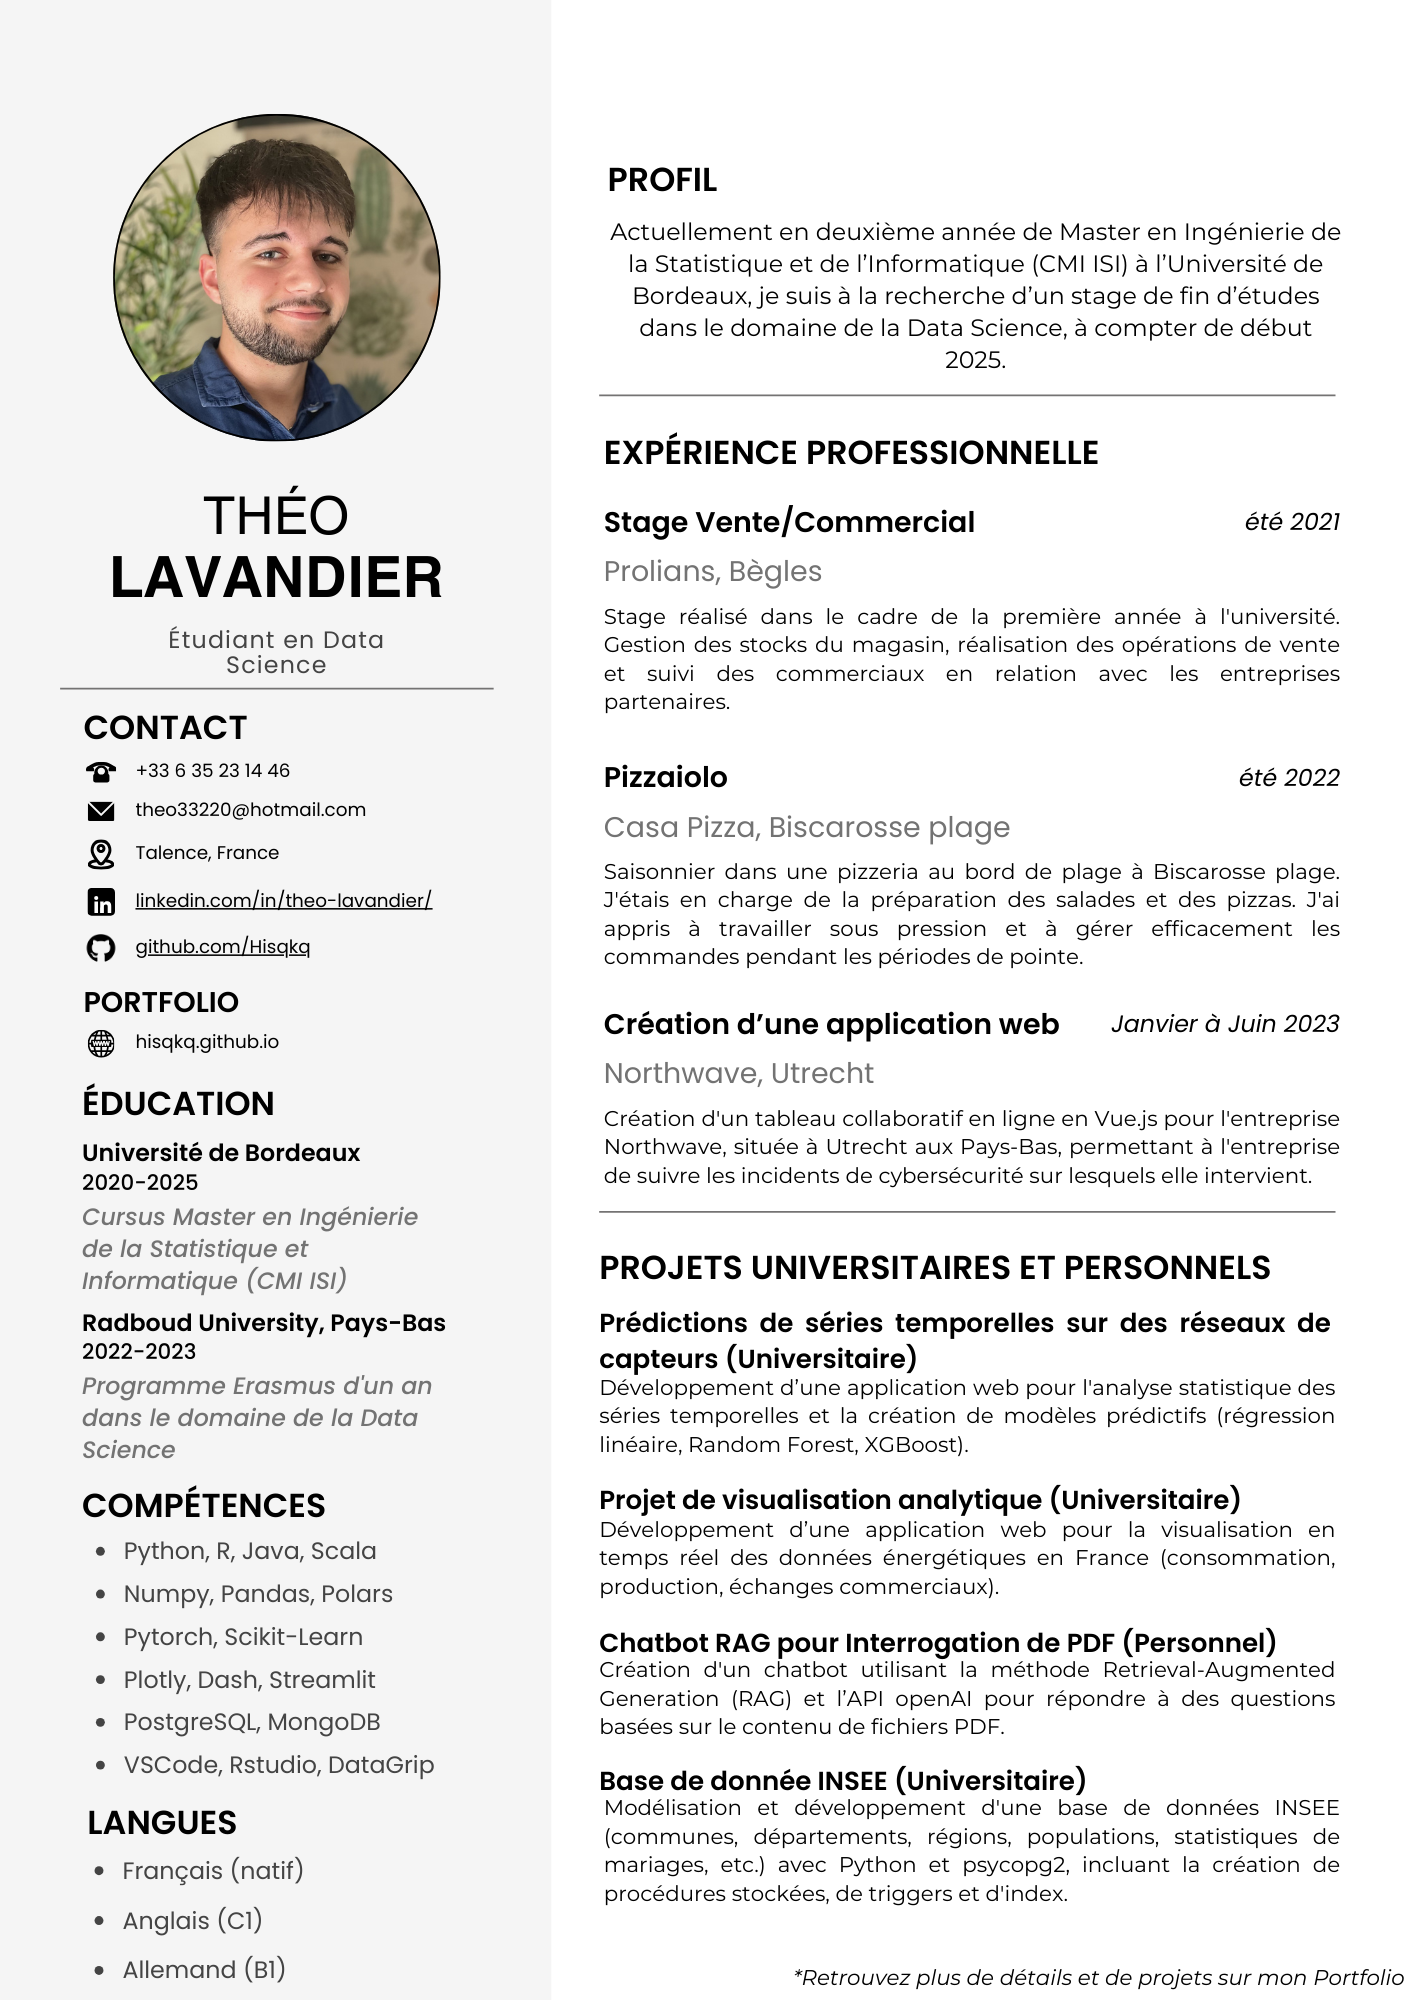
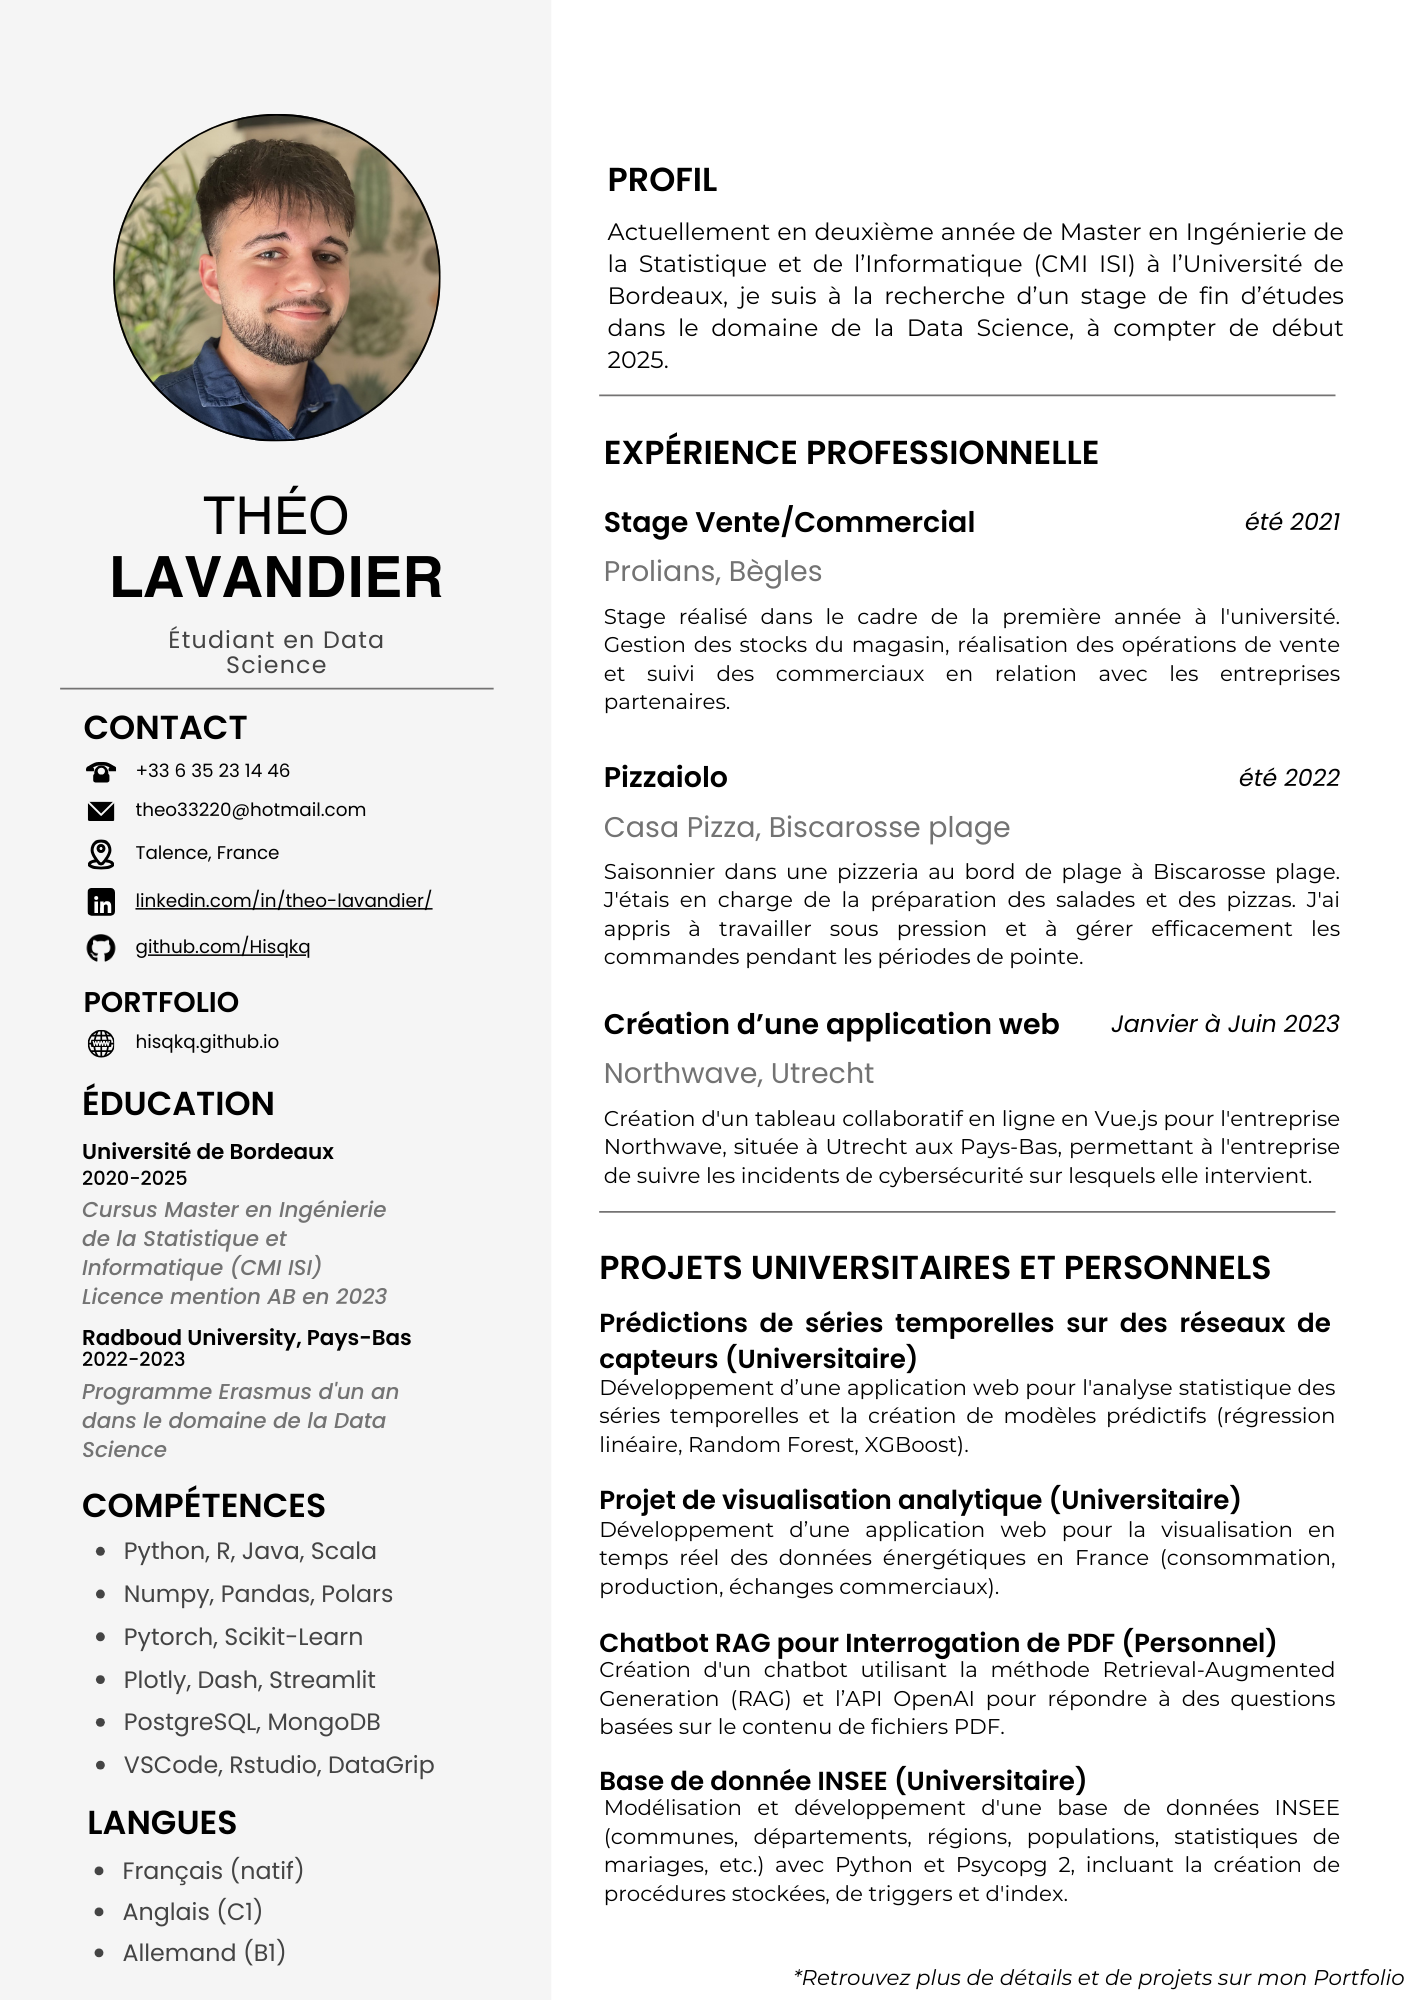
Update PDF upload button label in RAG.md

diff --git a/_posts/2024-06-23-RAG.md b/_posts/2024-06-23-RAG.md
@@ -166,7 +166,7 @@ Here is the PDF document containing the story information:
 
 ### Step 1: Upload PDF Document
 
-I will upload the PDF document containing the story information. To upload your own PDF document, you can go to the chat section of the chatbot and click on the "Upload PDF" button. After uploading the document, the chatbot will process the content and store it in the vector store.
+I will upload the PDF document containing the story information. To upload your own PDF document, you can go to the chat section of the chatbot and click on the `Upload PDF` button. After uploading the document, the chatbot will process the content and store it in the vector store.
 
 ![Upload PDF white](/assets/img/RAG/PDF.jpg){: .light .w-75 .shadow .rounded-10 w='1212' h='668'}
 
